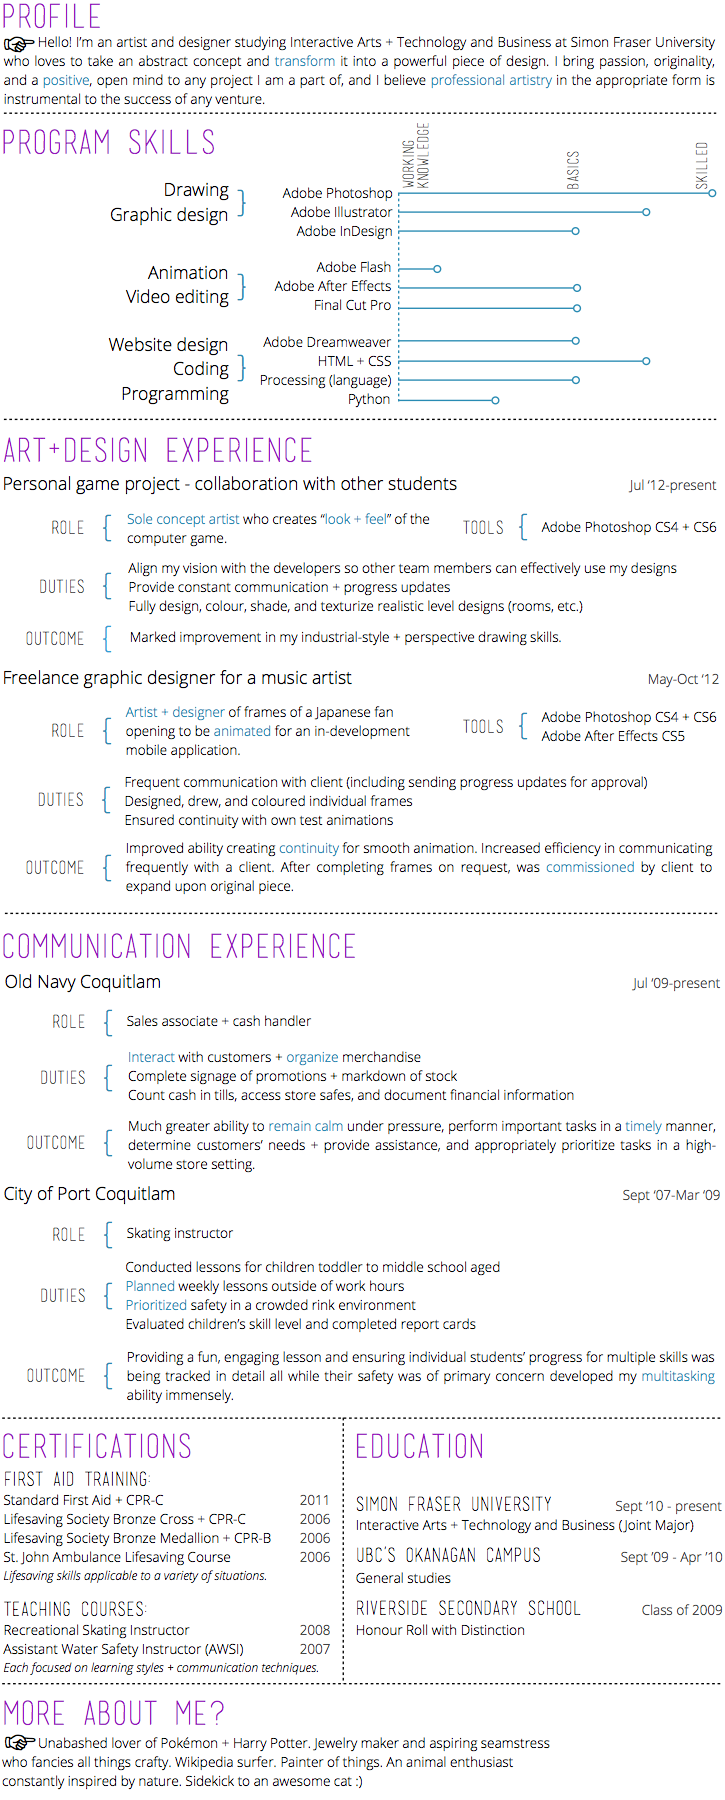
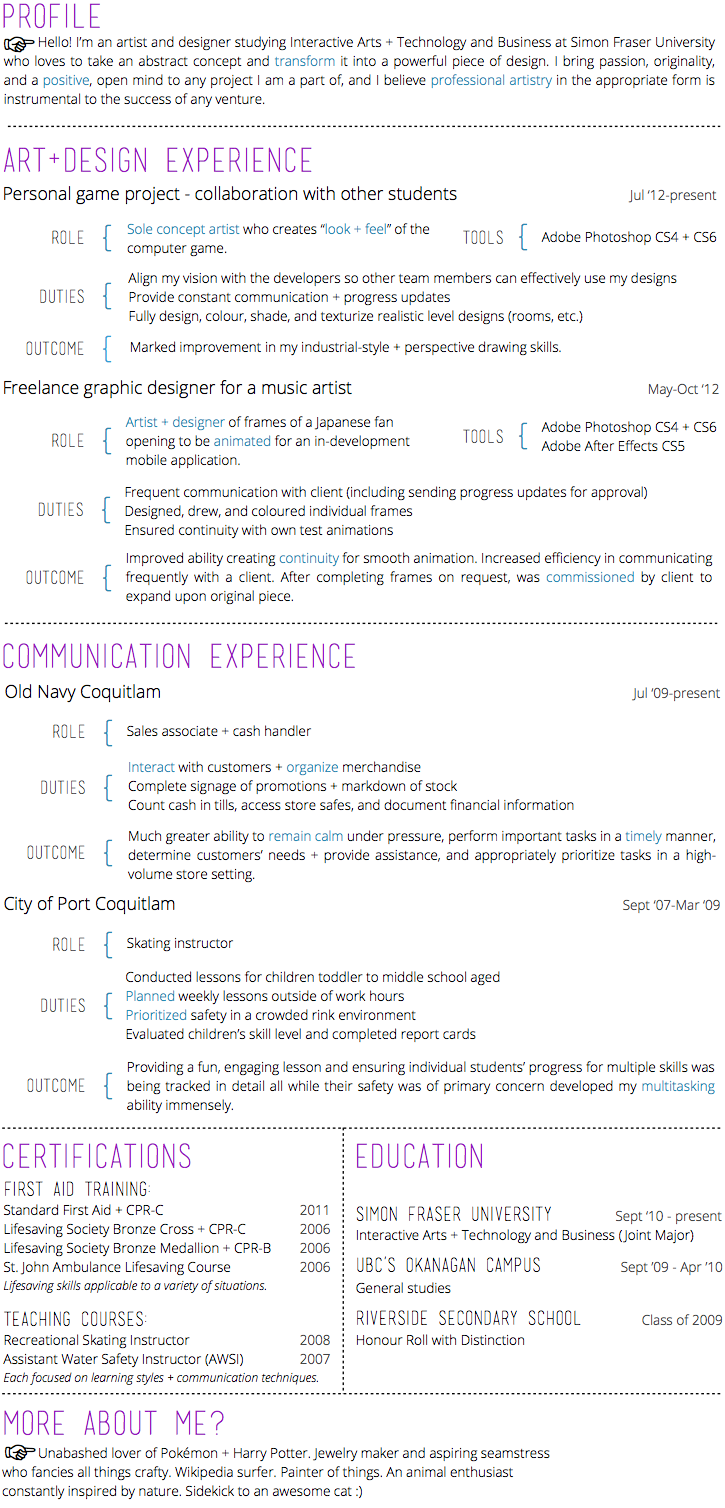
improved dropdown menu, edited content
- made dropdown menu ease in/out
- added "welcome blurb" on front page + freelance "call to action"
- removed graph from resume
- added links to "about" section to pull viewer back to project pages
- changed some of project descriptions
- added project titles

Changed region(s): [[0.0, 0.0, 1.0, 0.9973], [0.8497, 0.5298, 1.0, 0.5922]]

diff --git a/conceptart.html b/conceptart.html
@@ -59,6 +59,9 @@
 		
 		<div id="topborder">			
 			<section id="conceptart">
+				<p id="title">
+					<strong>project |</strong> Concept Art
+				
 				<p>
 					<strong>purpose |</strong> Concept art is a field I am extremely interested in, which is why I am involved in this collaboration. I am the only concept artist, and complete all pieces individually.
 				</p>
@@ -80,15 +83,15 @@
 	
 		<section id="desc">
 			<p>
-				This personal game project is a collaboration with other students who are similarly looking to gain experience in their respective fields. Being the sole concept artist, it is my job to take the level descriptions provided to me by the developers and create a piece that will illustrate the “look & feel” of these game environments for the animators, 3D modelers,  texture artists, and so on to work from. I have the creative liberty to add any details I feel will make the designs feel more authentic, and am encouraged to do so!
+				This game project is a collaboration outside of school with other students who are similarly looking to gain experience in their respective fields. Being the sole concept artist, it is my job to take the level descriptions provided to me by the developers and create a piece that will illustrate the “look & feel” of these game environments for the animators, 3D modelers,  texture artists, and so on to work from.
 			</p>
 			
 			<p>
-				Thus far, the pieces have been of manmade, industrial objects & perspective drawings. Before this project, these subjects were entirely out of my comfort zone - but after a lot of practice and trial & error, I’m very pleased with how my skills have progressed. It became clear from the start how much time and detail goes into making a room look “real” and give off the vibe I picture in my head.
+				Thus far, the pieces have been of manmade, industrial objects & perspective drawings. Before this project, these subjects were entirely out of my comfort zone - but after a lot of practice and trial & error, I’m very pleased with how my skills have progressed.
 			</p>
 			
 			<p>
-				With the control room (the top image), for example, I had to detail everything from the lighting & shadows to the texture on the walls to achieve the creepy and dirty, yet high-tech, look I was aiming for. So far my work has gotten very positive feedback and I have many more pieces lined up for the near future.The marketing campaign for the game will also be underway soon, and my work will be vital to its success. So far, this project has been a lot of fun - I've loved being so creative and bringing the descriptions handed to me to life via my art!
+				With the control room (middle image), for example, I had to detail everything from the lighting & shadows to the texture on the walls to achieve the creepy and dirty, yet high-tech, look I was aiming for. So far my work has gotten very positive feedback and I have many more pieces lined up for the near future.
 			</p>
 		</section>
 	

diff --git a/geisha.html b/geisha.html
@@ -59,6 +59,10 @@
 		
 		<div id="topborder">			
 			<section id="geisha">
+				<p id="title">
+					<strong>project |</strong> Memoirs of a Geisha Poster
+				</p>
+				
 				<p>
 					<strong>purpose |</strong> This project was for a graphic design course in which we had to create a movie poster in the style of an artist from a major design movement. This was an individual project.
 				</p>
@@ -83,11 +87,11 @@
 	
 		<section id="desc">		
 				<p> 
-					This project was for a graphic design course in which we had to create a movie poster in the style of an artist from a major design movement. I chose Alphonse Mucha in the style of art nouveau, an art style characterized by flowing lines, organic elements, relatively muted colours, ornate design work, and frequently women as focal points. The movie I chose was Memoirs of a Geisha, as I thought the subject of a geisha would fit perfectly with such a classically "feminine" style.
+					For this project, I decided to be inspired by the style of art nouveau (specifically artist Alphonse Mucha). This art style is characterized by flowing lines, organic elements, relatively muted colours, ornate design work, and frequently women as focal points. The movie I chose was <em>Memoirs of a Geisha</em>; I thought the subject of a geisha would fit perfectly with such a classically "feminine" style. 
 				</p>
 		
 				<p>
-					 I began by sketching the drawing on paper, then scanned it onto the computer and completed the rest digitally. The challenge of working in a different style was interesting as it quickly became clear which aspects of the other artist's work overlap with mine and which don't. For example, I was comfortable with the art nouveau tendency to use more flowing shapes and edges for a more organic feel, but having to work in muted colours was unfamiliar as it's my tendency to work with bright jewel tones. Due to this, I was able to improve the ability to put my natural inclinations aside to emulate a different style, and I found it to be a refreshing experience. I believe being open to new approaches and flexible in your own is necessary to learn and grow in any creative field, and seeking inspiration from others' work is an excellent way to exercise this.
+					 I began by sketching the drawing on paper, then scanned it and completed the rest digitally. The challenge of working in a different style was interesting - it quickly became clear which aspects of the other artist's work overlap with mine and which don't. Having to work in muted colours was unfamiliar as it's my tendency to work with bright jewel tones. Due to this, I was able to improve the ability to put my natural inclinations aside to emulate a different style.
 				</p>
 		</section>
 	

diff --git a/geisha.css b/geisha.css
@@ -153,8 +153,8 @@ ul.dropdown ul li a	{
 
 #all {
 	text-transform:uppercase;
-	margin-left:25px;
-} 
+	margin-right:-25px;
+}
 
 /*------------------------------------*\
 				FOOTER
@@ -294,61 +294,6 @@ footer {
 }
 
 /*------------------------------------*\
-				GEISHA
-\*------------------------------------*/
-
-#geisha {
-	text-align:justify;
-	float:left;
-	clear:left;
-	width:45%;
-	padding-right:30px;
-	opacity:1;
-	margin-top:4%;
-}
-
-#topborder img:hover {
-	cursor: -webkit-zoom-in; cursor: -moz-zoom-in;
-}
-
-#topborder img {
-	margin-top:3.5%;
-}
-	
-#geisha strong {
-	color:#00c7fc;
-	text-transform:uppercase;
-	letter-spacing:2px;
-	font-size:10px;
-}
-
-#gei {
-	margin-left:20px;
-	margin-right:3%;
-	float:right;
-	border:1px black solid;
-
-	height:250px;
-	width:auto;
-}
-
-#geisketch {
-	border:1px black solid;
-	height:250px;
-	width:auto;
-	
-	display:block;
-	margin-left:auto;
-	margin-right:auto;
-	
-	margin-top:30px;
-}
-
-#desc {
-	float:left;
-}
-
-/*------------------------------------*\
 		RESPONSIVE [ IMAGES ]
 \*------------------------------------*/
 
@@ -474,6 +419,68 @@ footer {
 		height:180px;
 	}
 }
+
+/*------------------------------------*\
+				GEISHA
+\*------------------------------------*/
+
+#geisha {
+	text-align:justify;
+	float:left;
+	clear:left;
+	width:45%;
+	padding-right:30px;
+	opacity:1;
+	margin-top:4%;
+}
+
+#topborder img:hover {
+	cursor: -webkit-zoom-in; cursor: -moz-zoom-in;
+}
+
+#topborder img {
+	margin-top:3.5%;
+}
+	
+#geisha strong {
+	color:#00c7fc;
+	text-transform:uppercase;
+	letter-spacing:2px;
+	font-size:10px;
+}
+
+#title {
+ 	text-transform:uppercase;
+	letter-spacing:2px;
+	font-size:10px;
+}
+
+#gei {
+	margin-left:20px;
+	margin-right:3%;
+	float:right;
+	border:1px black solid;
+
+	height:250px;
+	width:auto;
+}
+
+#geisketch {
+	border:1px black solid;
+	height:250px;
+	width:auto;
+	
+	display:block;
+	margin-left:auto;
+	margin-right:auto;
+	
+	margin-top:30px;
+}
+
+#desc {
+	float:left;
+}
+
 
 /*------------------------------------*\
 MAGNIFIC POPUP { plugins.jquery.com/magnific-popup }

diff --git a/about.html b/about.html
@@ -54,15 +54,16 @@
 				</p>
 				
 				<p>
-					My hobbies include drawing (of course!), jewelry-making,
+					My hobbies include <a href="personal.html">drawing</a> (of course!), jewelry-making,
 					reading, and general surfing of the internet. I love learning
 					about other cultures, psychology, as well as many other
 					subjects; my Wikipedia-surfing habit has made me a connoisseur
-					of many random, but often delightful, factoids. I am a huge
+					of many random, but often delightful, factoids. I have an awesome cat named Mucha ("moo•ka"). Fun fact - his namesake is the
+					artist who inspired <a href="geisha.html">this project</a>! I am a huge
 					fan of Pokémon + Harry Potter, as well as numerous other
-					fantasy-based "worlds." I think creativity and imagination
-					are incredibly important, but unfortunately find these traits
-					are often undermined or forgotten.
+					fantasy-based "worlds." I would love to be a <a href="conceptart.html">concept artist</a>
+					to help bring these worlds to life, in a setting where a strong
+					imagination is valued and encouraged.
 				</p>
 				
 				<p>

diff --git a/home.css b/home.css
@@ -138,6 +138,7 @@ ul.dropdown ul li a	{
 
 ul.dropdown .current {
 	text-transform:uppercase;
+	margin-right:-25px;
 }
 
 #down {
@@ -182,6 +183,28 @@ ul.dropdown .current {
 	-moz-transition: color 0.4s;
 	-o-transition: color 0.4s;
 	transition: color 0.4s;
+}
+
+#intro a {
+	color:#00c7fc;
+	text-decoration:none;
+	letter-spacing:4px;
+	font-size:11px;
+}
+
+#intro a:hover {
+	color:#919191;
+	
+	-webkit-transition: color 0.4s;
+	-moz-transition: color 0.4s;
+	-o-transition: color 0.4s;
+	transition: color 0.4s;
+}
+
+#intro {
+	letter-spacing:2px;
+	font-size:10px;
+	padding-top:15px;
 }
 
 .projs:hover {

diff --git a/js/jquery.dropdownPlain.js b/js/jquery.dropdownPlain.js
@@ -9,7 +9,7 @@ $(function(){
     	
 			if ($("ul.dropdown li").hasClass("on")) {
 				$(this).addClass("hover");
-				$('ul:first',this).css('visibility', 'visible');
+				$('ul:first',this).css('visibility', 'visible').hide().fadeIn();
 				// show/hide arrows:
 				$("#side").hide();
 				$("#down").css('visibility', 'visible');
@@ -17,7 +17,7 @@ $(function(){
 		
 			else {
 				$(this).removeClass("hover");
-				$('ul:first',this).css('visibility', 'hidden');
+				$('ul:first',this).fadeOut("fast");
 				// show/hide arrows:
 				$("#side").show();
 				$("#down").css('visibility', 'hidden');

diff --git a/about.css b/about.css
@@ -150,7 +150,7 @@ ul.dropdown ul li a	{
 
 #all {
 	text-transform:uppercase;
-	margin-left:25px;
+	margin-right:-25px;
 } 
 
 /*------------------------------------*\
@@ -298,6 +298,23 @@ footer {
 	text-align:justify;
 	max-width:60%;
 	position:relative;
+}
+
+#about a {
+	color:#00c7fc;
+	text-transform:uppercase;
+	text-decoration:none;
+	letter-spacing:2px;
+	font-size:10px;
+}
+
+#about a:hover {
+	color:#919191;
+	
+	-webkit-transition: color 0.4s;
+	-moz-transition: color 0.4s;
+	-o-transition: color 0.4s;
+	transition: color 0.4s;
 }
 
 #girl {

diff --git a/home.html b/home.html
@@ -43,7 +43,10 @@
 
 	<section id="projects">
 		<div id="topborder">
-		<div id="test">
+		
+		<p id="intro">
+			Welcome to my portfolio! My name is Olivya with a "Y", and I'm an aspiring artist & designer.<br>I am available for freelance work - please <a href="mailto:ostrilof@sfu.ca">e-mail me</a>!
+		</p>
 		
 			<div class="proj1strow">
 			
@@ -68,8 +71,6 @@
 				</div>
 				</a>
 				
-			</div>
-			
 		</div>	
 		</div>
 	</section>

diff --git a/personal.html b/personal.html
@@ -58,6 +58,10 @@
 		
 		<div id="topborder">			
 			<section id="personalwork">
+				<p id="title">
+					<strong>project |</strong> Personal Work
+				</p>
+				
 				<p>
 					<strong>purpose |</strong> Improvement, practice, & fun! I’ve always loved drawing, and this interest only became stronger once I learned how to use Photoshop and discovered the (wonderful!) world of digital art.
 					

diff --git a/conceptart.css b/conceptart.css
@@ -153,7 +153,7 @@ ul.dropdown ul li a	{
 
 #all {
 	text-transform:uppercase;
-	margin-left:25px;
+	margin-right:-25px;
 } 
 
 /*------------------------------------*\
@@ -313,6 +313,12 @@ footer {
 #conceptart strong {
 	color:#00c7fc;
 	text-transform:uppercase;
+	letter-spacing:2px;
+	font-size:10px;
+}
+
+#title {
+ 	text-transform:uppercase;
 	letter-spacing:2px;
 	font-size:10px;
 }

diff --git a/personal.css b/personal.css
@@ -153,7 +153,7 @@ ul.dropdown ul li a	{
 
 #all {
 	text-transform:uppercase;
-	margin-left:25px;
+	margin-right:-25px;
 } 
 
 /*------------------------------------*\
@@ -308,6 +308,12 @@ footer {
 	padding-right:30px;
 	opacity:1;
 	margin-top:25px;
+}
+
+#title {
+ 	text-transform:uppercase;
+	letter-spacing:2px;
+	font-size:10px;
 }
 
 #personalwork strong {

diff --git a/resume.css b/resume.css
@@ -148,7 +148,7 @@ ul.dropdown ul li a	{
 
 #all {
 	text-transform:uppercase;
-	margin-left:25px;
+	margin-right:-25px;
 } 
 
 
